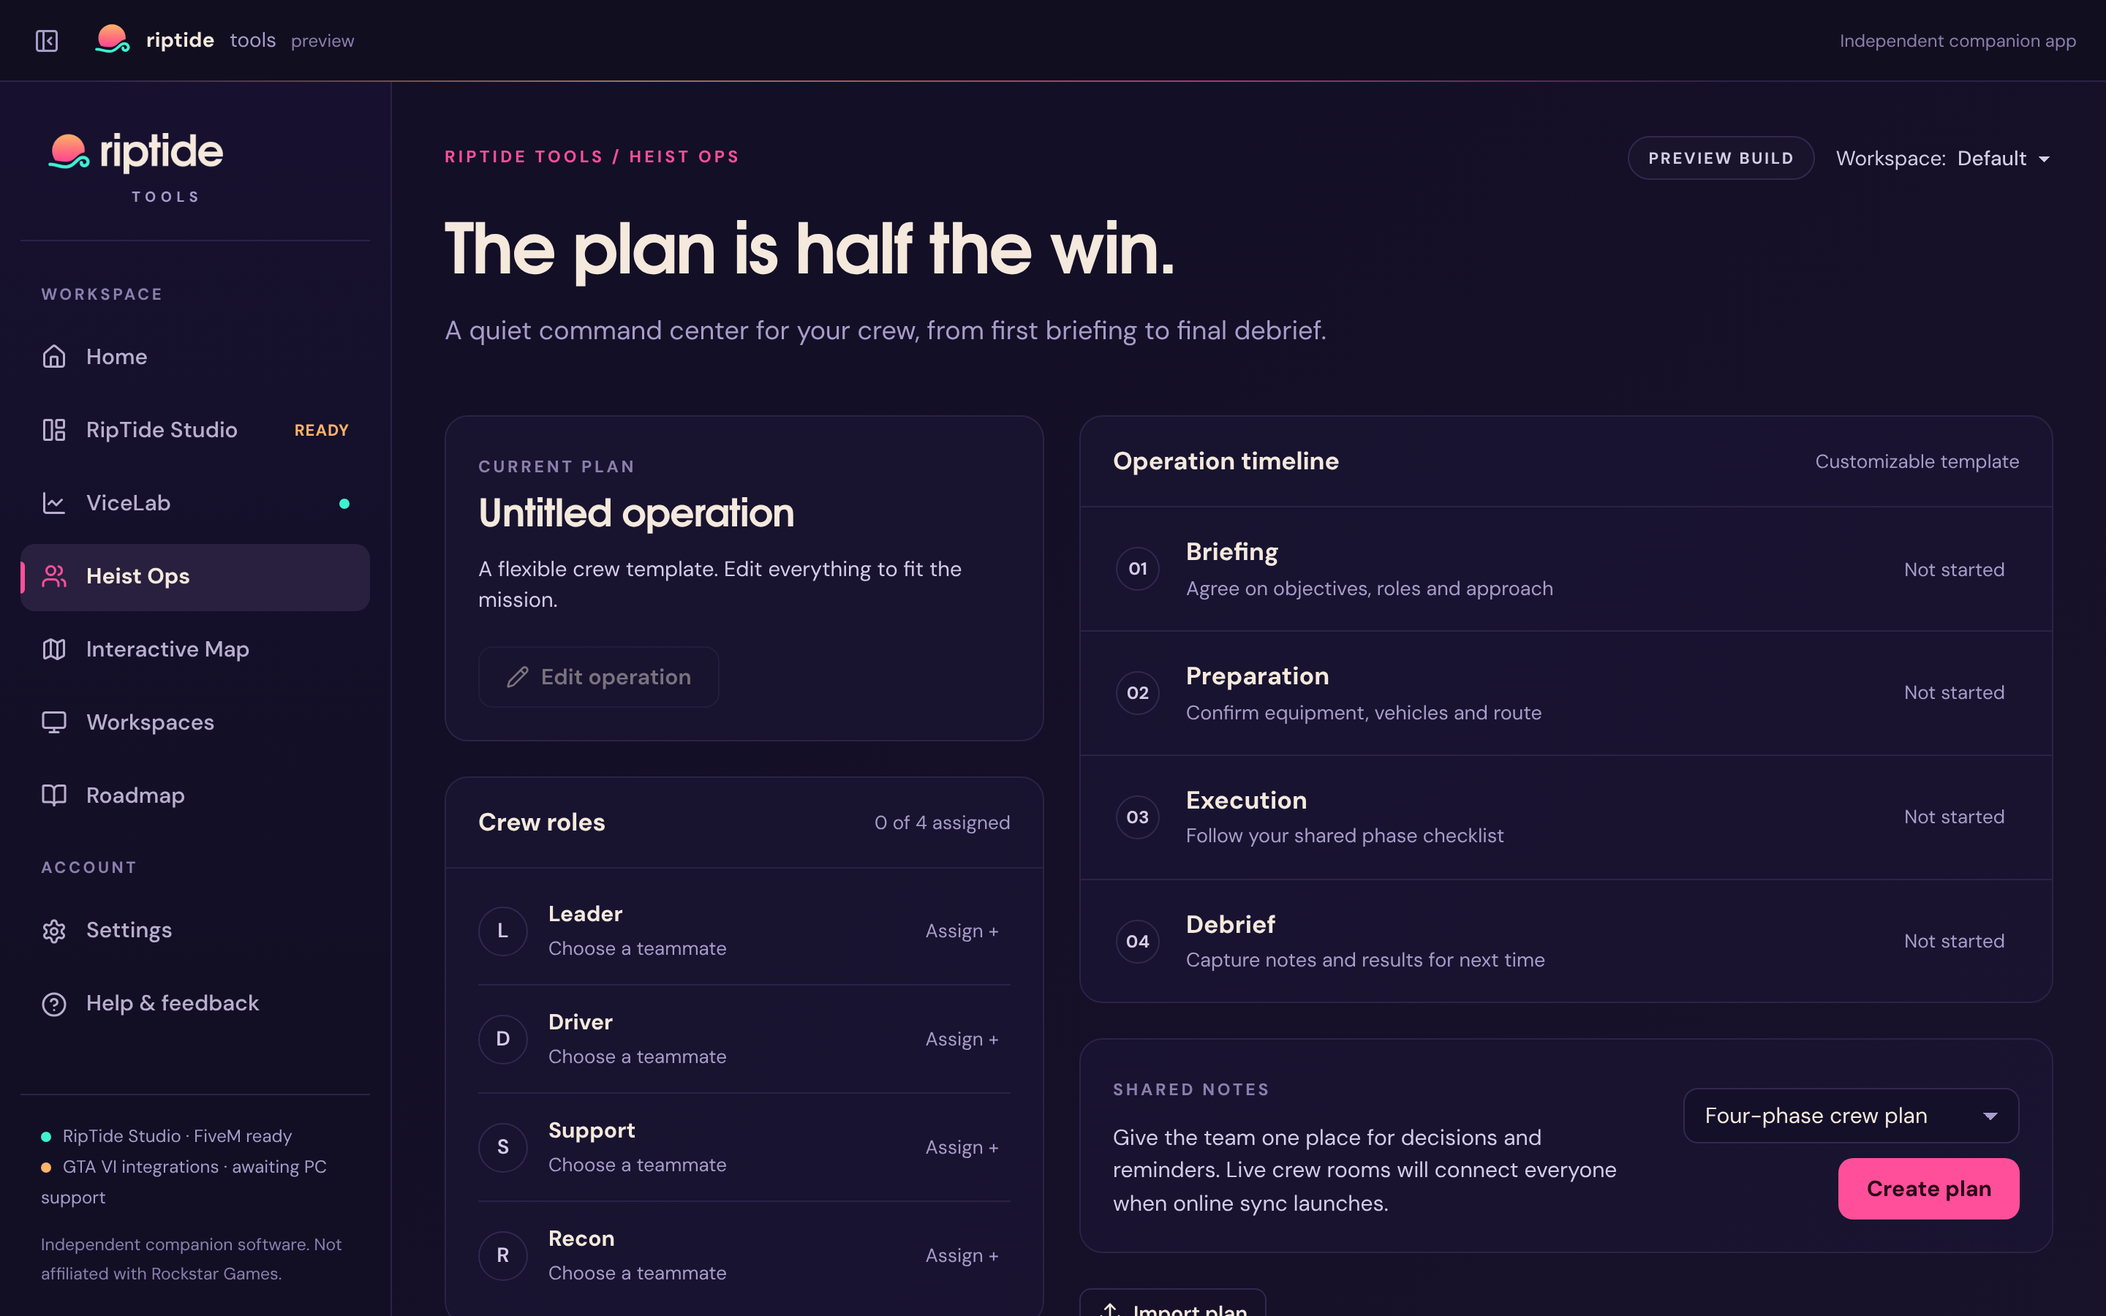
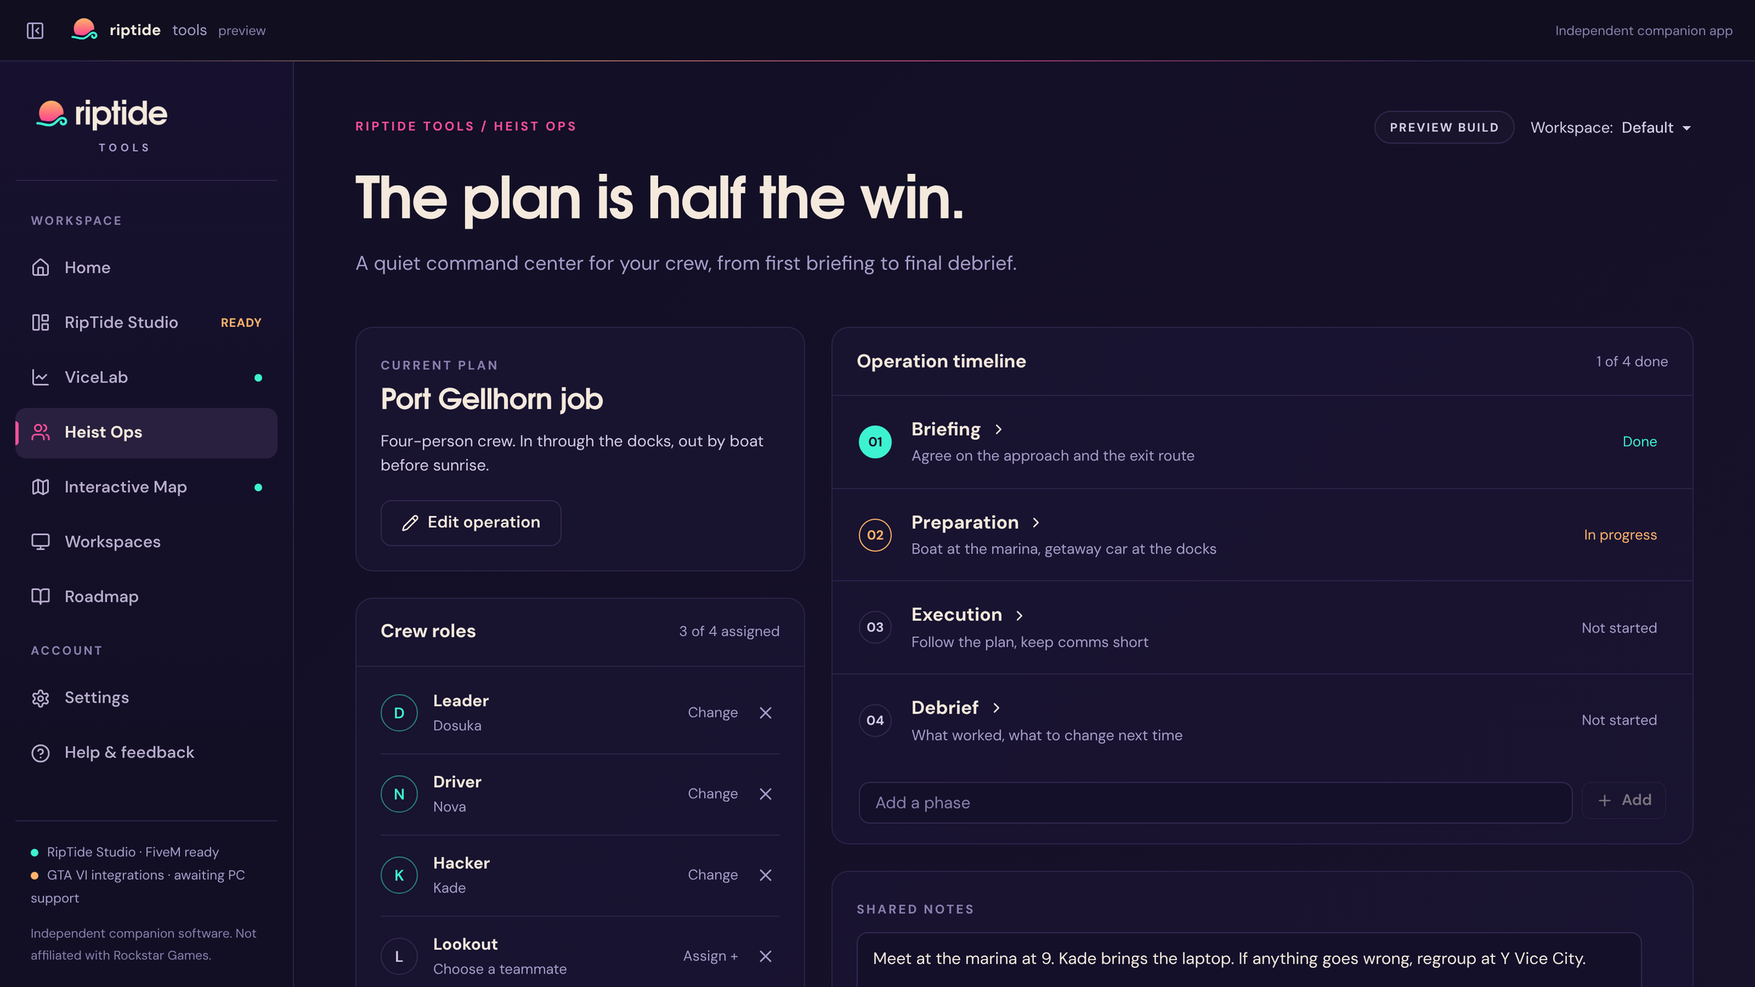
README: lead with RipTide Tools, refresh screenshots and docs
Update the README for the current product: RipTide Tools with the
official map, browser app, website and trailer links, why RipTide,
Studio as one of the tools, current architecture, roadmap and FAQ.
Document the tools package and website in ARCHITECTURE.md.

diff --git a/README.md b/README.md
@@ -1,26 +1,29 @@
 <p align="center">
   <picture>
     <source media="(prefers-color-scheme: dark)" srcset="brand/logo-animated-dark.svg">
-    <img src="brand/logo-animated-light.svg" alt="Riptide" width="440">
+    <img src="brand/logo-animated-light.svg" alt="RipTide" width="440">
   </picture>
 </p>
 
 <p align="center">
-  <b>Design your server once. Deploy it anywhere.</b><br>
-  The no-code server studio for roleplay and community servers, getting ready for GTA VI on PC.
+  <b>Every tool for your GTA life. One app.</b><br>
+  The official map of Leonida, real benchmarks, crew plans, a no-code server studio and multi-monitor workspaces. Built for GTA VI on PC.
 </p>
 
 <p align="center">
-  <img alt="Status: pre-release" src="https://img.shields.io/badge/status-pre--release-FFB36B?style=flat-square&labelColor=130F26">
+  <img alt="Status: preview" src="https://img.shields.io/badge/status-preview-FFB36B?style=flat-square&labelColor=130F26">
+  <img alt="Interactive Map: official GTA VI map" src="https://img.shields.io/badge/map-official%20Leonida-3DF2D0?style=flat-square&labelColor=130F26">
   <img alt="GTA V on FiveM: ready" src="https://img.shields.io/badge/GTA%20V%20%2F%20FiveM-ready-3DF2D0?style=flat-square&labelColor=130F26">
-  <img alt="GTA VI: waiting on Rockstar" src="https://img.shields.io/badge/GTA%20VI-waiting%20on%20Rockstar-FF4F9A?style=flat-square&labelColor=130F26">
+  <img alt="GTA VI on PC: waiting on Rockstar" src="https://img.shields.io/badge/GTA%20VI%20on%20PC-waiting%20on%20Rockstar-FF4F9A?style=flat-square&labelColor=130F26">
   <img alt="License: all rights reserved" src="https://img.shields.io/badge/license-all%20rights%20reserved-A69DC9?style=flat-square&labelColor=130F26">
 </p>
 
 <p align="center">
+  <a href="https://dosukasol.github.io/RipTide/app/?shell=tools"><b>Open RipTide Tools in your browser</b></a>
+  &nbsp;·&nbsp;
   <a href="https://dosukasol.github.io/RipTide/"><b>Website</b></a>
   &nbsp;·&nbsp;
-  <a href="https://dosukasol.github.io/RipTide/app/?shell=tools"><b>Open RipTide Tools in your browser</b></a>
+  <a href="https://dosukasol.github.io/RipTide/#trailer">Trailer</a>
   &nbsp;·&nbsp;
   <a href="https://discord.gg/N88znNpSgC">Discord</a>
 </p>
@@ -28,37 +31,73 @@
 ---
 
 > [!IMPORTANT]
-> **We're building ahead of GTA VI on PC.** GTA VI is out on consoles, but Rockstar hasn't announced the PC release date, GTA VI Online, or how community servers will work. Riptide is us getting everything ready in advance so server owners can launch on day one.
+> **We're building ahead of GTA VI on PC.** GTA VI is out on consoles, and RipTide's Interactive Map already uses the official map of Leonida. Rockstar hasn't announced the PC release, GTA VI Online, or how community servers will work, so everything that needs the game on PC waits for that.
 >
-> Expect **lots of updates and some big changes** as we learn more about GTA VI Online's framework, engine and server setup. Until then, Riptide builds GTA V servers on FiveM, and every Blueprint you design is made to move to GTA VI when support lands.
+> Expect **lots of updates and some big changes** as we learn more about GTA VI on PC and GTA VI Online. Until then, RipTide Studio builds GTA V servers on FiveM, and every Blueprint you design is made to move to GTA VI when support lands.
 
 <p align="center">
-  <img src="docs/screenshots/overview.png" alt="Riptide Studio overview: server summary, launch readiness shown as a rising sun, checklist, preview servers and deploy history" width="100%">
+  <img src="docs/screenshots/tools-map-full.png" alt="RipTide Tools Interactive Map showing the official map of Leonida with place markers, progress and filters" width="100%">
 </p>
 
-## What is Riptide?
+## What is RipTide?
 
-Running a good server today means juggling a dozen config files, a Discord bot, a hosting panel, a spreadsheet for the economy and a rules doc nobody reads. Riptide puts all of it in one place.
+RipTide is one app for your whole GTA setup. Five tools live side by side, stay running while you switch between them, and pop out onto a second monitor when you want them there. Everything runs on your PC: no account, nothing uploaded, and nothing that touches the game.
 
-You describe your server once as a **Blueprint**: rules, roles, economy, mods, visuals, who can join. Riptide checks that it all fits together, shows you what will happen before players arrive, and deploys it with one click. No scripting needed, and nothing hidden if you do know how.
+| Tool | What it does |
+| --- | --- |
+| **Interactive Map** | The official map of Leonida with 884 places to find in nine categories. Search, region filters, found tracking across up to eight playthroughs, favourites, your own markers and a second-screen pop-out. |
+| **ViceLab** | Real frame times from PresentMon, CapFrameX, MangoHud, OCAT and FrameView: average FPS, 1% and 0.1% lows, stability. Screenshot compare and settings picked from your own runs. |
+| **Heist Ops** | Plan the job with your crew: roles, phases, checklists and shared notes. Share a plan as a file. |
+| **RipTide Studio** | Design a roleplay or community server without code, check it fits together, and build it for FiveM. More below. |
+| **Workspaces** | Detach tools into their own windows. They remember where they were and come back on screen if a monitor is unplugged. |
 
-## Things nobody else does
+<table>
+  <tr>
+    <td width="50%"><img src="docs/screenshots/tools-map.png" alt="Interactive Map zoomed into Vice Beach with Y Vice City selected and its place details"><br><sub><b>Interactive Map.</b> Real places, real details, marked found in one click.</sub></td>
+    <td width="50%"><img src="docs/screenshots/tools-vicelab.png" alt="ViceLab frame-time chart with average FPS, 1% low FPS and frame-time stability"><br><sub><b>ViceLab.</b> 1% lows from your own captures, not guesses.</sub></td>
+  </tr>
+  <tr>
+    <td><img src="docs/screenshots/tools-heist.png" alt="Heist Ops crew plan with assigned roles and a four-phase timeline"><br><sub><b>Heist Ops.</b> Roles, phases and checklists for your crew.</sub></td>
+    <td><img src="docs/screenshots/tools-home.png" alt="RipTide Tools home with every tool and the tools that are running"><br><sub><b>Home.</b> Every tool, and what's running.</sub></td>
+  </tr>
+</table>
+
+What works today, what's a demonstration and what waits for GTA VI on PC: **[docs/TOOLS.md](docs/TOOLS.md)**.
+
+## Why RipTide
+
+- **All in one app.** Five tools, one window, one workspace.
+- **Two screens, one setup.** Pop any tool out and it remembers where it was.
+- **Stays on your PC.** No account needed, nothing is uploaded.
+- **Never touches the game.** No memory reads, no injection, no bots. ViceLab only reads files your capture tool saved.
+- **Honest data.** Numbers come from your own runs, map data is credited, nothing is made up.
+- **Ready for GTA VI on PC.** Built to support it the day Rockstar's PC tools land.
+
+## RipTide Studio
+
+Running a good server today means juggling a dozen config files, a Discord bot, a hosting panel, a spreadsheet for the economy and a rules doc nobody reads. Studio puts all of it in one place.
+
+You describe your server once as a **Blueprint**: rules, roles, economy, mods, visuals, who can join. RipTide checks that it all fits together, shows you what will happen before players arrive, and builds it for your server. No scripting needed, and nothing hidden if you do know how.
+
+<p align="center">
+  <img src="docs/screenshots/overview.png" alt="RipTide Studio overview: server summary, launch readiness shown as a rising sun, checklist, and example preview servers and deploy history" width="100%">
+</p>
+
+### Things nobody else does
 
 These ideas are new for game servers, and most of them already work in the preview.
 
 | | |
 | --- | --- |
 | **Economy forecast** | Simulates 60 days of your players' wallets before launch, so you see inflation and broke newcomers coming. Autopilot can nudge taxes to keep things steady. |
-| **Plain-English rulebook** | Write *"Police need at least 4 officers online before bank robberies."* Riptide enforces the rules it understands, leaves the rest to staff, and publishes one rules page plus a Discord post that never drift apart. |
+| **Plain-English rulebook** | Write *"Police need at least 4 officers online before bank robberies."* RipTide enforces the rules it understands, leaves the rest to staff, and publishes one rules page plus a Discord post that never drift apart. |
 | **Mod compatibility check** | Spots duplicate systems, missing dependencies and wrong-game mods *before* you install, with one-click fixes and a worked-out start order. |
 | **Performance budget** | Server time, player memory and first-join download size, estimated for your player count while you browse mods. |
 | **Launch readiness** | A single score, drawn as a sun rising over the water. At 100 it clears the horizon. |
-| **Preview servers** | Branch your server, let staff test a change, then merge it. Deploy previews, but for game servers. |
+| **Preview servers** | Branch your server, let staff test a change, then merge it. Coming with RipTide hosting. |
 | **Share codes** | Turn a whole server into a code that others can remix. |
 | **Engine-agnostic Blueprints** | The same Blueprint builds for FiveM today and GTA VI tomorrow. Only the adapter changes. |
 | **Region by community** | Picks the hosting region closest to where your Discord members actually are. |
-
-## A closer look
 
 <table>
   <tr>
@@ -71,56 +110,15 @@ These ideas are new for game servers, and most of them already work in the previ
   </tr>
   <tr>
     <td><img src="docs/screenshots/world.png" alt="World and look screen with a live neon city preview"><br><sub><b>World & look.</b> Time, weather, streets and a live visual preview.</sub></td>
-    <td><img src="docs/screenshots/deploy.png" alt="Deploy screen with game targets, regions ranked by community, cost and a deploy in progress"><br><sub><b>Deploy.</b> Pick a game and region, watch it go live.</sub></td>
+    <td><img src="docs/screenshots/deploy.png" alt="Deploy screen with game targets, regions ranked by community, cost and a simulated deploy"><br><sub><b>Deploy.</b> Pick a game and region. Hosted deploys are simulated until hosting opens.</sub></td>
   </tr>
 </table>
 
-## RipTide Tools (preview)
-
-Studio is getting company. **RipTide Tools** puts Studio and four companion tools in one app: **ViceLab** for frame-time benchmarks and image compare, **Heist Ops** for crew plans, an **Interactive Map** you can pop out to a second monitor, and **Workspaces** to arrange it all across your displays. Open tools stay running while you switch between them.
-
-It's behind a flag while we finish it. Add `?shell=tools` to the Studio address to try it, or `?shell=classic` to go back. The map is Rockstar's official map of Leonida with about 900 community-mapped places to find and tick off. Anything that needs GTA VI on PC is clearly marked and switched off until it's out. There's no made-up data.
-
-<table>
-  <tr>
-    <td width="50%"><img src="docs/screenshots/tools-home.png" alt="RipTide Tools home with Studio, ViceLab, Heist Ops and Interactive Map cards"><br><sub><b>Home.</b> Every tool, and what's running.</sub></td>
-    <td width="50%"><img src="docs/screenshots/tools-vicelab.png" alt="ViceLab benchmark screen with a capture import and settings form"><br><sub><b>ViceLab.</b> Real frame times from your own captures.</sub></td>
-  </tr>
-  <tr>
-    <td><img src="docs/screenshots/tools-heist.png" alt="Heist Ops plan with crew roles and a four-phase timeline"><br><sub><b>Heist Ops.</b> Roles, phases and checklists for your crew.</sub></td>
-    <td><img src="docs/screenshots/tools-map.png" alt="Interactive Map showing the official map of Leonida with place markers, category filters and progress"><br><sub><b>Interactive Map.</b> The official map, places to find and a second-screen pop-out.</sub></td>
-  </tr>
-</table>
-
-What's working, what's a demonstration, and what waits for GTA VI: **[docs/TOOLS.md](docs/TOOLS.md)**.
-
-## What you can plug in
+### What you can plug in
 
 Frameworks, inventories, voice, phones, HUDs, housing, garages, jobs, police and EMS tools, interiors, clothing, anti-cheat, admin panels, Discord, streaming tools, stores, analytics, visual presets and accessibility. The full map, with what works today and what's waiting on GTA VI, lives in **[docs/INTEGRATIONS.md](docs/INTEGRATIONS.md)**.
 
-## How it works
-
-```mermaid
-flowchart LR
-  S[Riptide Studio] --> B((Blueprint))
-  C[riptide CLI] --> B
-  B --> K{Checks}
-  K -->|compatibility, budget,<br>economy, readiness| B
-  B --> F[FiveM adapter]
-  B --> G[GTA VI adapter]
-  B --> D[Docker stack]
-  F --> H[Riptide hosting]
-  D --> Y[Your own machine]
-  G -. waiting on Rockstar .-> H
-```
-
-- **`packages/core`**: the engine. Blueprint schema, catalog, compatibility, budget, economy simulation, rulebook compiler, readiness, hosting estimates, share codes, diffs and adapters. No UI, fully tested.
-- **`packages/cli`**: `riptide` on the command line, for people who like files and git.
-- **`apps/studio`**: the visual editor in the screenshots.
-
-More detail in [docs/ARCHITECTURE.md](docs/ARCHITECTURE.md).
-
-## Try the preview
+## Try it
 
 The quickest way: **[open RipTide Tools in your browser](https://dosukasol.github.io/RipTide/app/?shell=tools)**. Nothing to install, and everything stays on your device.
 
@@ -132,7 +130,7 @@ npm run build
 npm test
 npm run e2e   # browser tests, needs Playwright
 
-# Open the Studio at http://127.0.0.1:5173
+# Open the app at http://127.0.0.1:5173 (add ?shell=tools for RipTide Tools)
 npm run dev
 
 # Or build the website and the app together at http://127.0.0.1:4173
@@ -144,7 +142,33 @@ npm run riptide -- forecast examples/neon-coast.riptide.json
 npm run riptide -- build examples/neon-coast.riptide.json --target fivem --out dist/neon-coast
 ```
 
-The preview runs entirely on your machine. It doesn't send data anywhere, and hosted deploys are simulated until Riptide hosting opens.
+The app runs entirely on your machine or in your browser. It doesn't send data anywhere, and hosted deploys are simulated until RipTide hosting opens.
+
+## How it's built
+
+```mermaid
+flowchart LR
+  T[RipTide Tools] --> S[RipTide Studio]
+  T --> M[Map · ViceLab · Heist Ops · Workspaces]
+  S --> B((Blueprint))
+  C[riptide CLI] --> B
+  B --> K{Checks}
+  K -->|compatibility, budget,<br>economy, readiness| B
+  B --> F[FiveM adapter]
+  B --> G[GTA VI adapter]
+  B --> D[Docker stack]
+  G -. waiting on Rockstar .-> V[GTA VI servers]
+  F --> H[Your server]
+  D --> H
+```
+
+- **`packages/core`**: the Studio engine. Blueprint schema, catalog, compatibility, budget, economy simulation, rulebook compiler, readiness, hosting estimates, share codes, diffs and adapters. No UI, fully tested.
+- **`packages/tools`**: logic for the other tools: frame-time parsing and stats, heist plans, map places and packs, window layout recovery, validated storage. Fully tested.
+- **`packages/cli`**: `riptide` on the command line, for people who like files and git.
+- **`apps/studio`**: the app itself, with RipTide Tools and Studio.
+- **`site`**: the website, published to GitHub Pages with the app at `/app/`.
+
+More detail in [docs/ARCHITECTURE.md](docs/ARCHITECTURE.md).
 
 ## Roadmap
 
@@ -154,20 +178,27 @@ The preview runs entirely on your machine. It doesn't send data anywhere, and ho
 - [x] FiveM adapter and docker stack
 - [x] Studio design and startup animation
 - [x] RipTide Tools preview: ViceLab, Heist Ops, Interactive Map, Workspaces
+- [x] Official map of Leonida with places, found tracking and playthroughs
+- [x] Website with the app in your browser
+- [ ] Live crew rooms for Heist Ops
 - [ ] Discord bot: role sync, applications, rules post
-- [ ] Riptide hosting with preview servers and rollbacks
-- [ ] Live economy and performance view after launch
-- [ ] **GTA VI adapter, the moment Rockstar's PC tools exist**
+- [ ] RipTide hosting with preview servers and rollbacks
+- [ ] Desktop app
+- [ ] **GTA VI on PC: benchmarks, presets and the server adapter, the moment Rockstar's PC tools exist**
 
 The longer version is in [docs/ROADMAP.md](docs/ROADMAP.md).
 
 ## FAQ
 
-**Is this made by Rockstar?** No. Riptide is an independent project and isn't affiliated with Rockstar Games, Take-Two or Cfx.re.
+**Is it free?** Yes. The preview is free to use, in your browser or on your own machine.
 
-**Does it work with GTA VI right now?** Not yet, because nobody's does: there's no PC version or server tooling to target. Design your server now and it moves over when support lands.
+**Is this made by Rockstar?** No. RipTide is an independent project and isn't affiliated with Rockstar Games, Take-Two or Cfx.re.
 
-**Will Riptide follow Rockstar's rules for community servers?** Yes. We follow the platform's terms, including its rules on monetization, and refuse leaked or stolen assets.
+**Does it work with GTA VI right now?** The Interactive Map does: it uses the official map of Leonida. Everything that needs the game on PC, like benchmarks and servers, waits for GTA VI on PC, which Rockstar hasn't announced yet.
+
+**Is it safe to use with my game?** RipTide never reads game memory, injects anything or automates gameplay. ViceLab only reads capture files your own tools saved.
+
+**Will RipTide follow Rockstar's rules for community servers?** Yes. We follow the platform's terms, including its rules on monetization, and refuse leaked or stolen assets.
 
 **Is it open source?** Not right now. The code is public so you can see what we're building, but all rights are reserved. That may change later.
 
@@ -179,4 +210,4 @@ The Interactive Map isn't ours: the map of Leonida is © Rockstar Games, and the
 
 Grand Theft Auto, GTA V and GTA VI are trademarks of their respective owners and are mentioned only to describe compatibility.
 
-<p align="center"><sub>Built for the people who keep the city running after midnight.</sub></p>
+<p align="center"><sub>Made by <a href="https://github.com/DosukaSOL">DosukaSOL</a>, creator of PushFPS. Built for the people who keep the city running after midnight.</sub></p>

diff --git a/docs/ARCHITECTURE.md b/docs/ARCHITECTURE.md
@@ -57,3 +57,21 @@ An adapter takes a valid Blueprint and returns files. Today:
 ## Studio (`apps/studio`)
 
 React, bundled with esbuild. State is the Blueprint plus an undo history, saved locally after each change. Every screen derives its numbers from the engine on the fly, so moving a slider re-runs the forecast, the budget or the readiness score immediately.
+
+## RipTide Tools (`packages/tools`, `apps/studio/src/tools`)
+
+The app opens RipTide Tools with `?shell=tools` (remembered per device) and classic Studio otherwise. Studio runs inside the shell unchanged under `#/studio/...`.
+
+- **`packages/tools`** holds the logic, with no UI: frame-time capture parsing and stats for ViceLab, heist plans, map places, packs, search and found tracking, window layout recovery, and versioned zod schemas for everything stored on the device. It's covered by the unit tests.
+- **Shell** (`apps/studio/src/tools`): open tools stay mounted while you switch. ViceLab, Heist Ops and the map can pop out into their own windows; windows talk over a same-origin BroadcastChannel and share state through storage events.
+- **Map data** (`apps/studio/assets/map/leonida`): official map tiles and community places, bundled and loaded from the app's own origin. `scripts/map/import-gtadb.mjs` rebuilds them from a local gtadb.org checkout. See [THIRD_PARTY_NOTICES.md](../THIRD_PARTY_NOTICES.md).
+- Every stored value is validated when it's read, so corrupt or tampered storage falls back to safe defaults. The last change is saved even if the page closes straight away.
+
+## Website (`site`)
+
+A static page with no dependencies. `scripts/build-site.mjs` puts it together with the built app at `/app/`, and `.github/workflows/pages.yml` runs the tests, builds both and publishes them to GitHub Pages on every push to `main`.
+
+## Tests
+
+- `npm test`: unit tests for `packages/core` and `packages/tools`.
+- `npm run e2e`: browser tests for every tool, pop-out windows, keep-alive, corrupt storage, the map, and six screen sizes from 1366×768 to 1080p at 200%.
